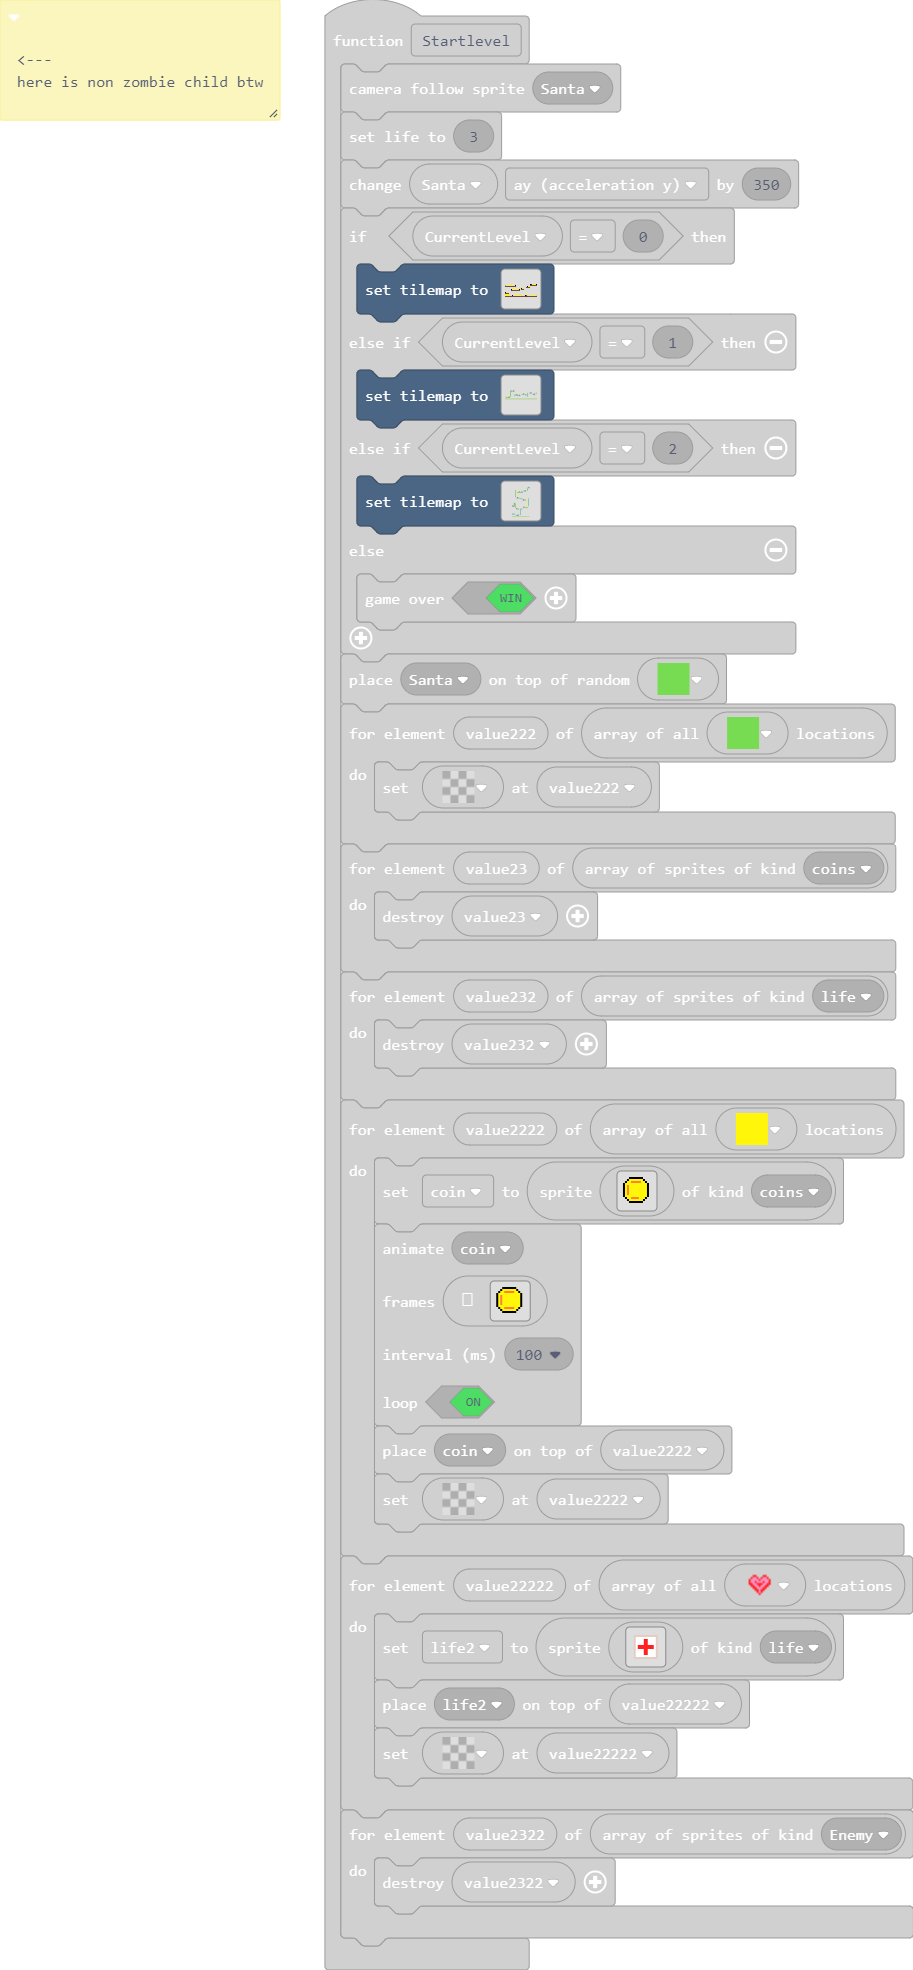
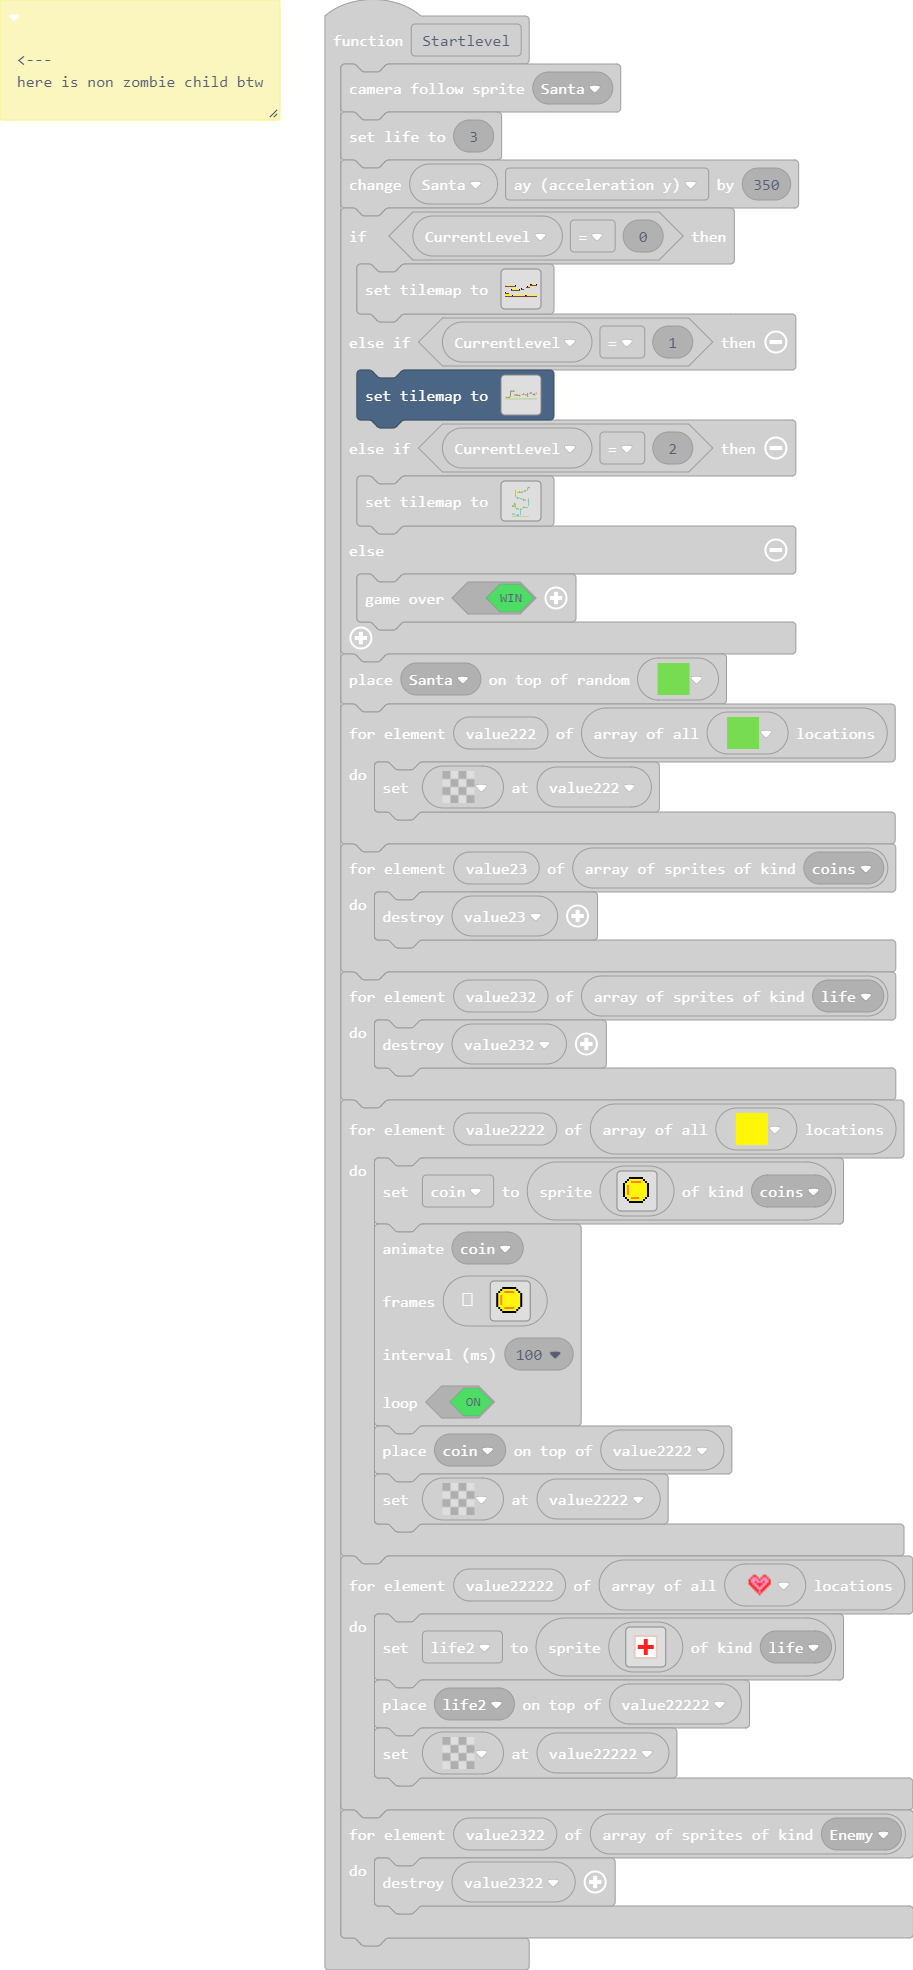
Update main.blocks, main.ts

diff --git a/main.ts b/main.ts
@@ -333,7 +333,7 @@ function Startlevel () {
         ))
     } else if (CurrentLevel == 1) {
         tiles.setTilemap(tiles.createTilemap(
-            hex`320010000000000000000000000000000000000000000000000000000000000000000000000000000000000000000000000000000000000000000000000000000000000000000000000000000000000000000000000000000000000000000000000000000000000000000000000000000003070707030000000000000000000000000000000000000000000000000000000000000000000000000000000000000000010101010101010000000000000000000000000000000000000000000000000000000000000000000000000000000000000701000000000000000000000000000000000000000000000000000000000000000000000000000000000000000000000000070100000000000000000000000000000000000000000000000000000700000700030000000000000007020000000000000007010000000000000000000000000000000000000000000000000000010000010101010000000000000101000000000000000701000000000000000000000000000000000000070703000000000001000000000000000000030700000000000000000000070100000000000707070703000000000000000101010100000807000100000000000000010101010000000000000000000007010000000000010101010101070703000000000000000000010100010000000000000000000001000000000000000000000701000000000000000000000101010101000000000000000000000001000000000000000000000000000000000000000000000100000000000000000000000000000000000000000000000000000100000000000000000000000000000004070707070300000000000000000000000000000000000000000000000000000000000000000000000000000000000000000101010101010000000000000000000000000000000000000000000000000000000000000000000000000000000000000000000000000000000000000000000000000000000000000000000000000000000000000000000000000000000000000000000606060606060606060606060606060606060606060606060606060606060606060606060606060606060606060606060606`,
[1 lines of base64/hex data omitted]
             img`
 . . . . . . . . . . . . . . . . . . . . . . . . . . . . . . . . . . . . . . . . . . . . . . . . . . 
 . . . . . . . . . . . . . . . . . . . . . . . . . . . . . . . . . . . . . . . . . . . . . . . . . . 
